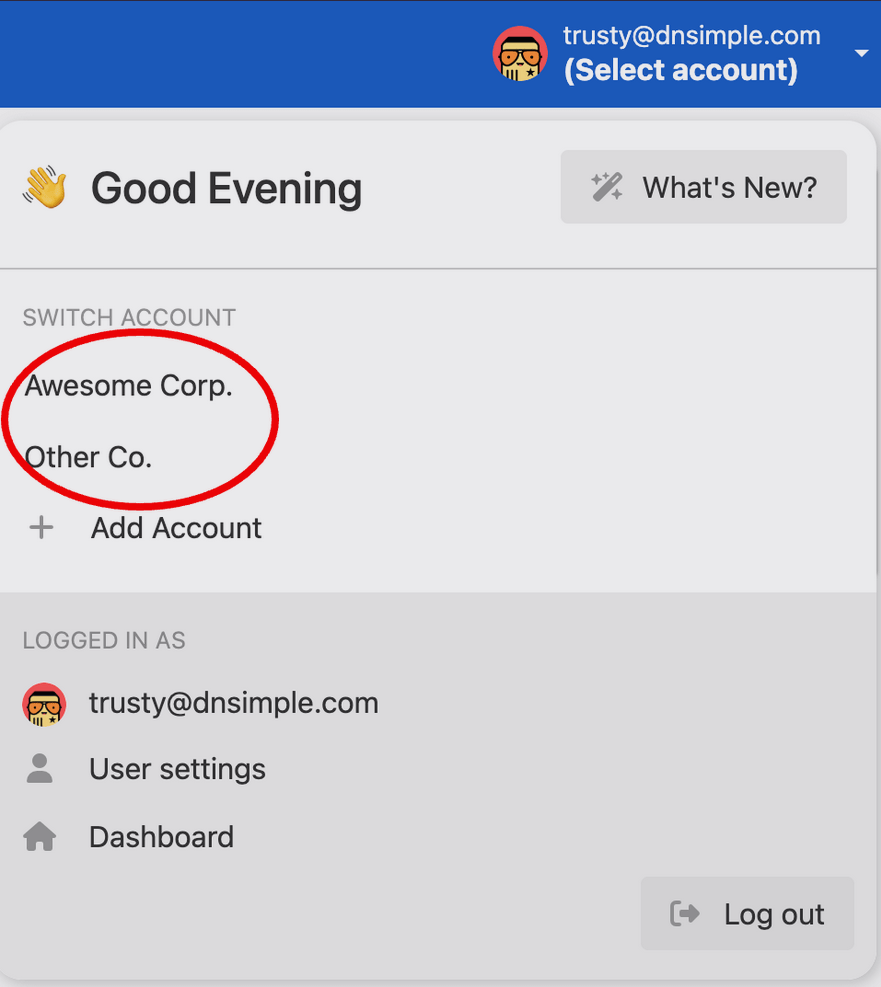
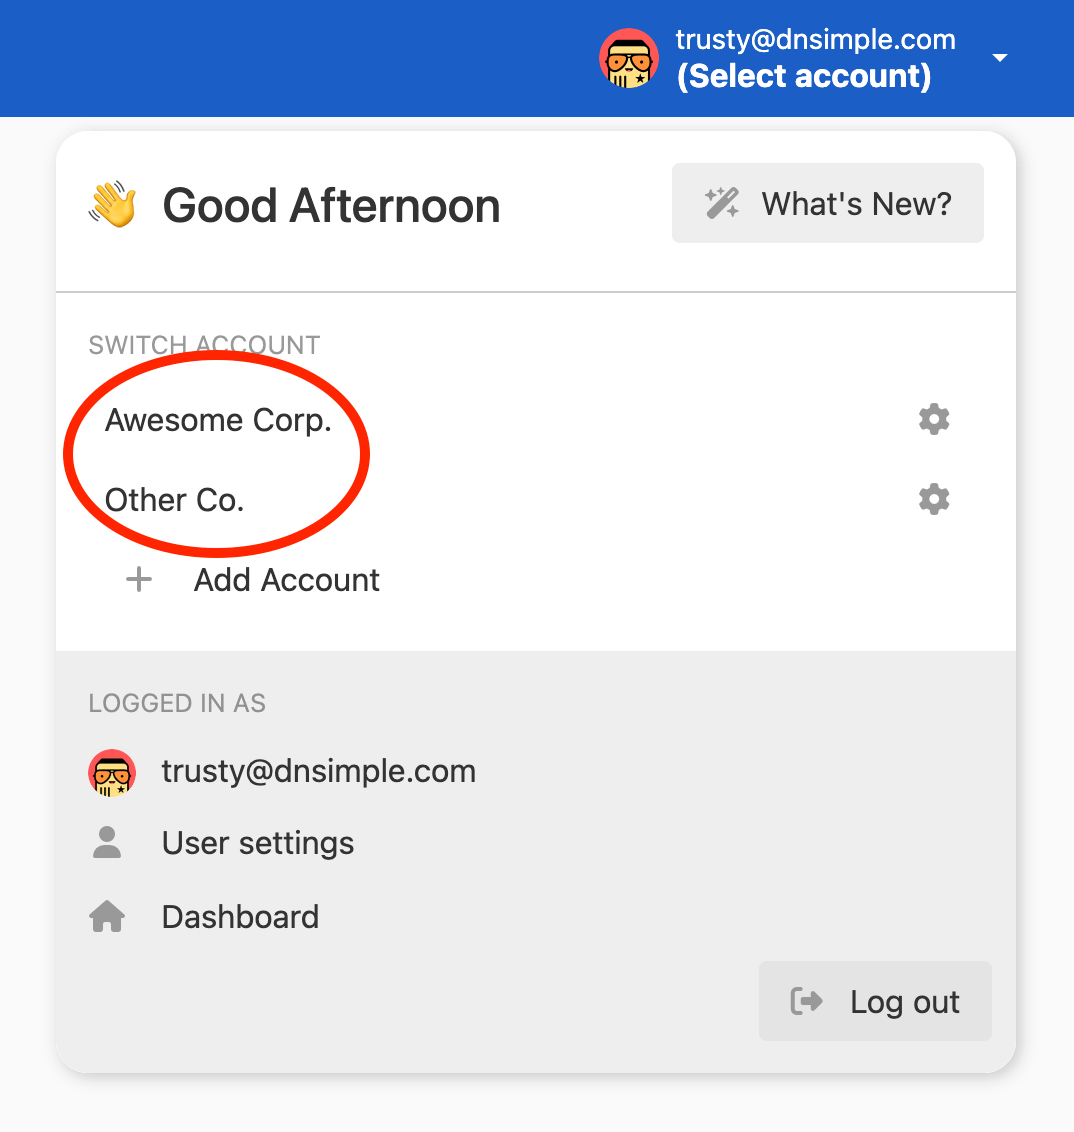
Update how to access the account settings with the improvement to the account switcher (#1624)

diff --git a/content/articles/integrated-dns-providers.md b/content/articles/integrated-dns-providers.md
@@ -54,8 +54,8 @@ However, record fields not supported by DNSimple or the destination provider may
 
 ## Connecting an Integrated DNS Provider to your account {#connecting-an-integrated-dns-provider}
 
-1. At DNSimple, select the relevant account from the account switcher at the top-right corner of the screen.
-1. From the account switcher, click **Account settings**, then click the **Integrated Providers** tab.
+1. At DNSimple, select the relevant account from the account switcher at the top-right corner of the screen, then click **Account settings**.
+1. Click the **Integrated Providers** tab.
 1. Under **Connect an Integrated Provider**, click **Connect** for the Integrated DNS Provider you want to link to your DNSimple account.
 ![Connect an Integrated DNS Provider](/files/account-integrated-provider-link.png)
 1. Fill in any required parameters for the Integrated DNS Provider configuration.
@@ -67,8 +67,8 @@ However, record fields not supported by DNSimple or the destination provider may
 
 ## Disconnecting an Integrated DNS Provider from your account {#disconnecting-an-integrated-dns-provider}
 
-1. At DNSimple, select the relevant account from the account switcher at the top-right corner of the screen.
-1. From the account switcher, click **Account settings**, then click the **Integrated Providers** tab.
+1. At DNSimple, select the relevant account from the account switcher at the top-right corner of the screen, then click **Account settings**.
+1. Click the **Integrated Providers** tab.
 1. Under **Connected providers**, click **Disconnect** for the Integrated DNS Provider you want to disconnect from your DNSimple account. This will remove the ability to view and manage zones and their DNS records at the connected provider via DNSimple.
 ![Disconnect an Integrated DNS Provider](/files/account-integrated-provider-unlink.png)
 
@@ -83,9 +83,9 @@ When you remove a zone, it will remain both in DNSimple and at the provider. Rem
 
 To manage the zone selection for an Integrated DNS Provider, follow these steps:
 
-1. At DNSimple, select the relevant account from the account switcher at the top-right corner of the screen.
+1. At DNSimple, select the relevant account from the account switcher at the top-right corner of the screen, then click **Account settings**.
 
-1. From the account switcher, click **Account settings**, then click the **Integrated Providers** tab.
+1. Click the **Integrated Providers** tab.
 
 1.  Under **Connected providers**, click **Manage Integrated Zones** for the appropriate Integrated DNS Provider.
 

diff --git a/content/articles/changing-account-information.md b/content/articles/changing-account-information.md
@@ -20,8 +20,7 @@ categories:
 You can update your account email address at any time. Changing your account email will **not** update your user email. To update your user email, follow [these instructions](/articles/changing-email/#changing-the-user-email). If you want to update both your account and user email to the same address, you'll need to update your user email first, then your account email.
 
 <div class="section-steps" markdown="1">
-1. Select the relevant account from the account switcher at the top-right corner of the screen.
-1. From the account switcher, click <label>Account settings</label>.
+1. Choose the relevant account from the account switcher, then click the gear icon ⚙ next to the account name to open **account settings**.
 1. Click <label>Edit</label> at the bottom right of the <label>Account</label> card:
 
     ![Settings menu](/files/account-menu.png)
@@ -39,8 +38,7 @@ You'll be redirected to the Account page, where you'll see the updated email add
 You can also edit your account name, country of operation, and change your answers to any of the security screening questions.
 
 <div class="section-steps" markdown="1">
-1. Select the relevant account from the account switcher at the top-right corner of the screen.
-1. From the account switcher, click <label>Account settings</label>.
+1. Choose the relevant account from the account switcher, then click the gear icon ⚙ next to the account name to open **account settings**.
 1. Click <label>Edit</label> at the bottom right of the <label>Account</label> card:
 
     ![Access to the account information section](/files/account-edit.png)

diff --git a/content/articles/entra-identity-provider.md b/content/articles/entra-identity-provider.md
@@ -66,7 +66,7 @@ From the Enterprise Application, click on the `Users and groups` tab to assign u
 These steps are performed in your DNSimple account:
 
 1. At DNSimple, use the **account switcher** at the top right of the page to select the account you want to link with Entra.
-1. Return to the **account switcher** and go to **Account Settings**.
+1. Click the gear icon ⚙ next to the account name to open the **account settings**.
 1. Click the **Single-Sign On** tab on the left side.
 1. Click **Authorize with Microsoft Entra ID** to authorize the Workspace.
 1. Fill in the Entra Tenant ID, client ID, and client secret, then click **Link**. You'll need to log in to the Entra Workspace.
@@ -108,10 +108,10 @@ If you log out of Entra, you will also be logged out of DNSimple.
 
 ## Unlinking an Entra organization from a DNSimple account
 
-1. At DNSimple, use the **account switcher** at the top right of the page to select the account you want to unlink. 
-2. Return to the **account switcher** and go to **Account Settings**. 
-3. Click the **Single-Sign On** tab on the left side. 
-4. Click **Revoke** next to the Entra SSO provider to remove the link from DNSimple to Entra.
+1. At DNSimple, use the **account switcher** at the top right of the page to select the account you want to unlink.
+1. Click the gear icon ⚙ next to the account name to open the **account settings**.
+1. Click the **Single-Sign On** tab on the left side.
+1. Click **Revoke** next to the Entra SSO provider to remove the link from DNSimple to Entra.
 
 ## Unlinking a DNSimple user from an Entra identity
 

diff --git a/content/articles/account-users.md b/content/articles/account-users.md
@@ -25,7 +25,7 @@ A DNSimple account can be associated with one or more users. When you add someon
 ## Adding members to an account
 
 <div class="section-steps" markdown="1">
-1. Once you've subscribed to an eligible plan, click the name of the account in the account switcher to visit the account page.
+1. Once you've subscribed to an eligible plan, click the gear icon ⚙ next to the account name to open **account settings**.
 
     ![Visit settings for selected account](/files/multiple-accounts-nav.png)
 
@@ -52,7 +52,7 @@ It's not possible to add a user whose email address is the same as the account. 
 ## Removing members from an account
 
 <div class="section-steps" markdown="1">
-1. If you want to remove a member from your account, switch to the account, and visit the settings from the menu.
+1. If you want to remove a member from your account, click the gear icon ⚙ next to the relevant account to open **account settings**.
 
     ![Visit settings for selected account](/files/multiple-accounts-nav.png)
 

diff --git a/content/articles/account-invoice-history.md b/content/articles/account-invoice-history.md
@@ -21,13 +21,9 @@ Account owners can view an account's payment history and manually retry failed i
 <div class="section-steps" markdown="1">
 ##### To view an account's invoice history
 
-1. Click the account switcher at the top-right corner of the screen, then choose the account you want to see the invoice history for.
+1. Click the account switcher at the top-right corner of the screen, then click the gear icon ⚙ next to the account name to open **account settings**.
 
     ![screenshot of account link in top nav](/files/multiple-accounts-nav.png)
-
-1. From the account switcher, click the **Account settings** link.
-
-    ![screenshot of account link in top nav](/files/account-nav-link.png)
 
 1. Scroll down to the <label>Invoices</label> section and click on <label>View all</label>. You can also view your last invoice directly by clicking **View** in the **Last Invoice** section.
 

diff --git a/content/articles/changing-payment-details.md b/content/articles/changing-payment-details.md
@@ -16,8 +16,7 @@ Teams and higher plans have Domain Access Controls. Only those with a full-acces
 
 ### To update an account's payment details
 
-1. Select the account you want to update the payment information for from the account switcher at the top-right corner of the screen. This takes you to the domain list for the account.
-1. From the account switcher, click <label>Account settings</label>.
+1. Select the account you want to update the payment information for. From the account switcher at the top-right corner of the screen, click the gear icon ⚙ next to the account name to open **account settings**.
 1. Select <label>Billing and plans</label> from the left side bar.
 1. Find the card showing your credit card information, and click <label>Edit</label>.
 

diff --git a/content/articles/account-multi.md b/content/articles/account-multi.md
@@ -48,13 +48,11 @@ To create another account under your existing user profile:
 
 ## Switching among accounts
 
-Select the account you want to view from the account switcher, and you'll be taken to the Domain List for that account.
+Select the account you want to view from the **account switcher** to access the associated **Domain List**. 
+
+Click the gear icon ⚙ next to the account name to open **account settings**.
 
 ![screenshot of account link in top nav](/files/multiple-accounts-nav.png)
-
-Once you've selected an account, open the account switcher again, and click **_Account settings_** to view details for the selected account.
-
-![screenshot of account link in top nav](/files/account-nav-link.png)
 
 ## Have more questions?
 

diff --git a/content/articles/billing-settings.md b/content/articles/billing-settings.md
@@ -42,8 +42,7 @@ If you need to change the billing information for an existing invoice, please [c
 <div class="section-steps" markdown="1">
 ##### To update your billing settings
 
-1.  Select the relevant account from the account switcher at the top-right corner of the screen.
-1.  From the account switcher, click <label>Account settings</label>.
+1. Choose the relevant account from the account switcher, then click the gear icon ⚙ next to the account name to open **account settings**.
 1.  Scroll down to the invoices section. Click **Edit** at the bottom right of the section.
 
     ![Change billing settings](/files/account-billing-settings-link.png)

diff --git a/content/articles/account-subscription-balance.md b/content/articles/account-subscription-balance.md
@@ -10,7 +10,7 @@ categories:
 The Account page, linked under the selected account in the account switcher, provides comprehensive information about the account's billing and plan status.
 
 ## Checking your account billing details
-1. Choose the relevant account from the account switcher, then click **Account settings**.
+1. Choose the relevant account from the account switcher, then click the gear icon ⚙ next to the account name to open **account settings**.
 1. On the account page, you can find your account balance under the **Billings and plans** tab on the left side of the screen.
 
 ## Billing details breakdown

diff --git a/content/articles/changing-plans.md b/content/articles/changing-plans.md
@@ -35,8 +35,7 @@ You can cancel these plan changes in your account settings:
 
 ## Changing your subscription plan
 
-1.  Select the relevant account from the account switcher at the top-right corner of the screen.
-1.  From the account switcher, click **Account settings** to enter the account page.
+1. Select the relevant account from the account switcher at the top-right corner of the screen, then click the gear icon ⚙ next to the account name to open **account settings**.
 1.  Click the **Change plan** link under your plan section.
 
 ![Screenshot of how to change plan](/files/change-plan-screenshot.png)

diff --git a/content/articles/cancel-subscription.md b/content/articles/cancel-subscription.md
@@ -25,8 +25,7 @@ This is not an account deletion. If you do not delete your domains from the acco
 <div class="section-steps" markdown="1">
 ##### To unsubscribe from your DNSimple plan:
 
-1. From the account switcher, select the account you no longer need.
-1. Click **Account settings** in the account switcher.
+1. Choose the relevant account from the account switcher, then click the gear icon ⚙ next to the account name to open **account settings**.
 1. On the left side of the screen, select the **Billings and plans** tab.
 1. Scroll down to the end of the page to find the Unsubscribe section.
 

diff --git a/content/articles/activity-tracking.md b/content/articles/activity-tracking.md
@@ -37,7 +37,7 @@ Click **View** on the **Activity** card to view a detailed audit log of changes 
 
 Account-level activity tracking can be found under the account page.
 
-In the account switcher, click the name of the account you want to review, then click **_Account settings_**.
+Choose the relevant account from the account switcher, then click the gear icon ⚙ next to the account name to open **account settings**.
 
 Click **View** on the **Activity** card to view a detailed audit log of changes within your account, including:
 
